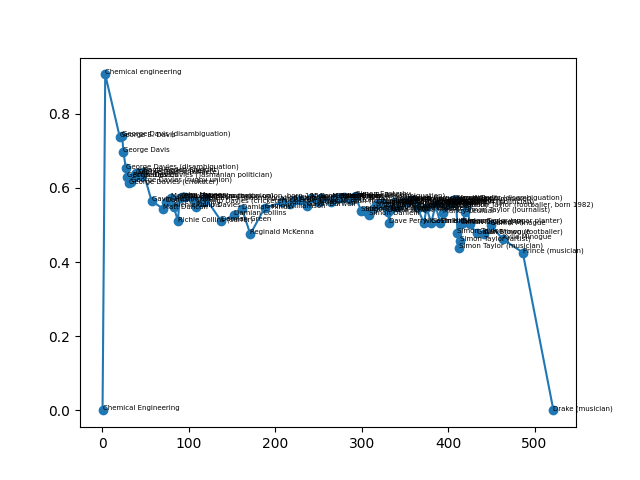
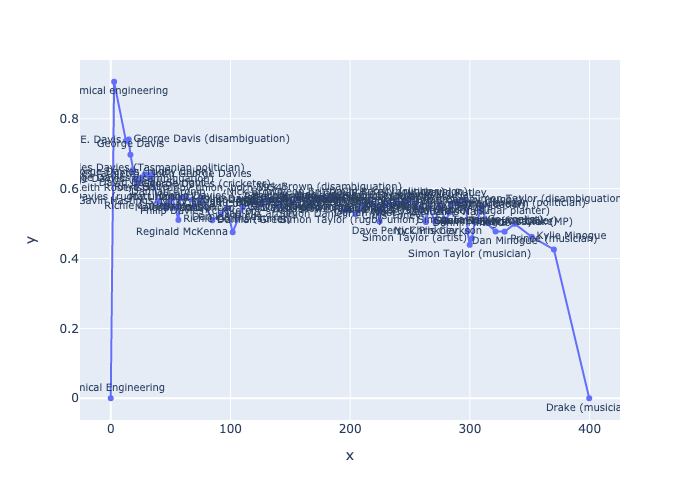
updated results to csv

diff --git a/wikiSearch.py b/wikiSearch.py
@@ -1,6 +1,6 @@
 #!/usr/bin/python3
 
-import sys, requests, time, gensim, warnings
+import sys, requests, time, gensim, warnings, csv
 import plotly.express as px
 from gensim.models import Word2Vec
 from nltk.tokenize import sent_tokenize, word_tokenize
@@ -113,6 +113,14 @@ def print_links(title):
 
 
 
+# Given a 2D array, start, end, and algorithm, save it to a csv file
+def save_to_csv(array, start, end, algorithm):
+    with open(f'{start}_{end}_{algorithm}.csv', 'w+') as f:
+        writer = csv.writer(f)
+        writer.writerows(array)
+
+
+
 # Given a list of times and a list of heuristics, plot the heuristics vs. time
 def plot(times, heuristics):
     plt.plot(times, heuristics)
@@ -162,7 +170,8 @@ def backtrace(parent, start, end):
 
 
 
-# Given a start and end goal, find the end goal from the start using BFS and return the optimal path, search dist, and time
+# Given a start and end goal,
+# find the end goal from the start using BFS and return the optimal path, search dist, and time
 # Exit if no path is found or if a path is too long
 def bfs(start, end):
     # Start timer
@@ -174,17 +183,27 @@ def bfs(start, end):
     parent[start] = None
     queue = []
     queue.append(Link(start, 0, 0, 0, 0))
+    res = [['Node', 'Level', 'Queue Size', 'Distance', 'Elapsed Time']]
 
     # BFS
     while queue:
         # Run for max MAX_TIME
-        if time.time() - start_time > MAX_TIME:
+        t = round(time.time() - start_time, 3)
+        if t > MAX_TIME:
             print('Exceeded max time')
+            # Updated res csv
+            res.append([])
+            res.append(['Exceeded max time'])
+            save_to_csv(res, start, end, 'bfs')
             sys.exit()
         
         # Run for max MAX_NODES nodes
         if dist > MAX_NODES:
             print('Exceeded max nodes')
+            # Update res csv
+            res.append([])
+            res.append(['Exceeded max nodes'])
+            save_to_csv(res, start, end, 'bfs')
             sys.exit()
         
         # Pop the first element
@@ -199,12 +218,21 @@ def bfs(start, end):
             print('Level:', node.level)
             print('Queue Size:', len(queue))
             print('Distance:', dist)
-            print('Elapsed Time:', round(time.time() - start_time, 3))
-        print()
+            print('Elapsed Time:', t)
+        if v != 0:
+            print()
+
+        # Add details to res list
+        res.append([node.name, node.level, len(queue), dist, t])
         
         # Check if the node is the end
         if node.name.lower() == end.lower():
-            return backtrace(parent, start, node.name), dist, time.time() - start_time
+            # Update res csv
+            res.append([])
+            res.append([backtrace(parent, start, node.name)])
+            save_to_csv(res, start, end, 'bfs')
+            # Return path
+            return backtrace(parent, start, node.name), dist, t
         # Add adjacent nodes to the queue
         links = get_links(node.name)
         # Continue to the next link if no children
@@ -214,26 +242,36 @@ def bfs(start, end):
             if adjacent not in parent:
                 parent[adjacent] = node.name
                 queue.append(Link(adjacent, 0, 0, 0, node.level + 1))
-    return None
+    sys.exit()
 
 
 
-# Given a start and end goal, find the end goal from the start using DFS and return the optimal path, search dist, and time
+# Given a node, start, end goal, parent dict, search dist, start time, and res list,
+# find the end goal from the start using DFS and return the optimal path, search dist, and time
 # Exit if no path is found or if a path is too long
-def dfs(node, start, end, parent=None, dist=0, start_time=time.time()):
+def dfs(node, start, end, parent=None, dist=0, start_time=time.time(), res = [['Node', 'Level', 'Distance', 'Elapsed Time']]):
     # Start of the algorithm
     if parent is None:
         parent = {}
         parent[node] = None
 
     # Run for max MAX_TIME
-    if time.time() - start_time > MAX_TIME:
+    t = round(time.time() - start_time, 3)
+    if t > MAX_TIME:
         print('Exceeded max time')
+        # Update res csv
+        res.append([])
+        res.append(['Exceeded max time'])
+        save_to_csv(res, start, end, 'dfs')
         sys.exit()
 
     # Run for max MAX_NODES nodes
     if dist > MAX_NODES:
         print('Exceeded max nodes')
+        # Update res csv
+        res.append([])
+        res.append(['Exceeded max nodes'])
+        save_to_csv(res, start, end, 'dfs')
         sys.exit()
 
     # Verbosity
@@ -242,12 +280,21 @@ def dfs(node, start, end, parent=None, dist=0, start_time=time.time()):
     if v == 2:
         print('Level:', node.level)
         print('Distance:', dist)
-        print('Elapsed Time:', round(time.time() - start_time, 3))
-    print()
+        print('Elapsed Time:', t)
+    if v != 0:
+        print()
+
+    # Add details to res list
+    res.append([node.name, node.level, dist, t])
 
     # Check if the node is the end
     if node.name.lower() == end.lower():
-        return backtrace(parent, start, node.name), dist, time.time() - start_time
+        # Update res csv
+        res.append([])
+        res.append([backtrace(parent, start, node.name)])
+        save_to_csv(res, start, end, 'dfs')
+        # Return path
+        return backtrace(parent, start, node.name), dist, t
     # Add adjacent nodes to the queue
     links = get_links(node.name)
     # Continue to the next link if no children
@@ -257,11 +304,12 @@ def dfs(node, start, end, parent=None, dist=0, start_time=time.time()):
         if adjacent not in parent:
             parent[adjacent] = node.name
             dfs(Link(adjacent, 0, 0, 0, node.level + 1), start, end, parent, dist + 1, start_time)
-    return None
+    sys.exit()
 
 
 
-# Given a start and end goal, find the end goal from the start using GBFS or A* and return the path, search dist, and time
+# Given an algorithm, start, and end goal,
+# find the end goal from the start using GBFS or A* and return the path, search dist, and time
 # Exit if no path is found or if a path is too long
 def gbfs_astar(algorithm, start, end):
     # Start timer
@@ -278,19 +326,29 @@ def gbfs_astar(algorithm, start, end):
     nodes = []
     heuristics = []
     times = []
+    res = [['Node', 'Level', 'Total Cost', 'Priority Queue Size', 'Distance', 'Elapsed Time']]
     # Matplotlib
     # fig, ax = plt.subplots()
 
     # GBFS or A*
     while pq.empty() == False:
         # Run for max MAX_TIME
-        if time.time() - start_time > MAX_TIME:
+        t = round(time.time() - start_time, 3)
+        if t > MAX_TIME:
             print('Exceeded max time')
+            # Update res csv
+            res.append([])
+            res.append(['Exceeded max time'])
+            save_to_csv(res, start, end, algorithm)
             sys.exit()
         
         # Run for max MAX_NODES nodes
         if dist > MAX_NODES:
             print('Exceeded max nodes')
+            # Update res csv
+            res.append([])
+            res.append(['Exceeded max nodes'])
+            save_to_csv(res, start, end, algorithm)
             sys.exit()
         
         # Get the most similar link
@@ -314,20 +372,24 @@ def gbfs_astar(algorithm, start, end):
                 print('Cost + Heuristic:', node.f)
             print('Priority Queue Size:', pq.qsize())
             print('Distance:', dist)
-            print('Elapsed Time:', round(time.time() - start_time, 3))
-        print()
+            print('Elapsed Time:', t)
+        if v != 0:
+            print()
+
+        # Add details to res list
+        res.append([node.name, node.level, node.f, pq.qsize(), dist, t])
 
         # Graph
         nodes.append(node.name)
         heuristics.append(node.f)
-        times.append(time.time() - start_time)
+        times.append(t)
         
         # Add node to visited
         visited.add(node.name)
         # Check if node is the end
         if node.name.lower() == end.lower():
             # Plot times vs. heuristics
-            if (v >= 1):
+            if (v == 2):
                 # Matplotlib
                 # ax.plot(times, heuristics, marker='o')
                 # for i in range(len(times)):
@@ -339,8 +401,12 @@ def gbfs_astar(algorithm, start, end):
                 fig = px.line(x=times, y=heuristics, markers=True, text=nodes)
                 fig.update_traces(textposition=improve_text_position(range(len(nodes))), textfont_size=10)
                 fig.write_image(f'{start}_{end}_{algorithm}_plot.png')
+            # Update res csv
+            res.append([])
+            res.append([backtrace(parent, start, node.name)])
+            save_to_csv(res, start, end, algorithm)
             # Return path
-            return backtrace(parent, start, node.name), dist, time.time() - start_time
+            return backtrace(parent, start, node.name), dist, t
         # Get children
         links = get_links(node.name)
         # Continue to the next link if no children
@@ -359,7 +425,7 @@ def gbfs_astar(algorithm, start, end):
                 # Set f and put the link into the queue
                 link.set_f()
                 pq.put(link)
-    return None
+    sys.exit()
 
 
 
@@ -384,7 +450,7 @@ if __name__ == '__main__':
         if args[3].isdigit() and int(args[3]) >= 0 and int(args[3]) <= 2:
             v = int(args[3])
     
-    # TEST
+    # TEST SAMPLE
     # Start = Deodorant
     # End = Parachute
     # Optimal is 3 steps (Deodorant -> Inventor -> Parachute)
